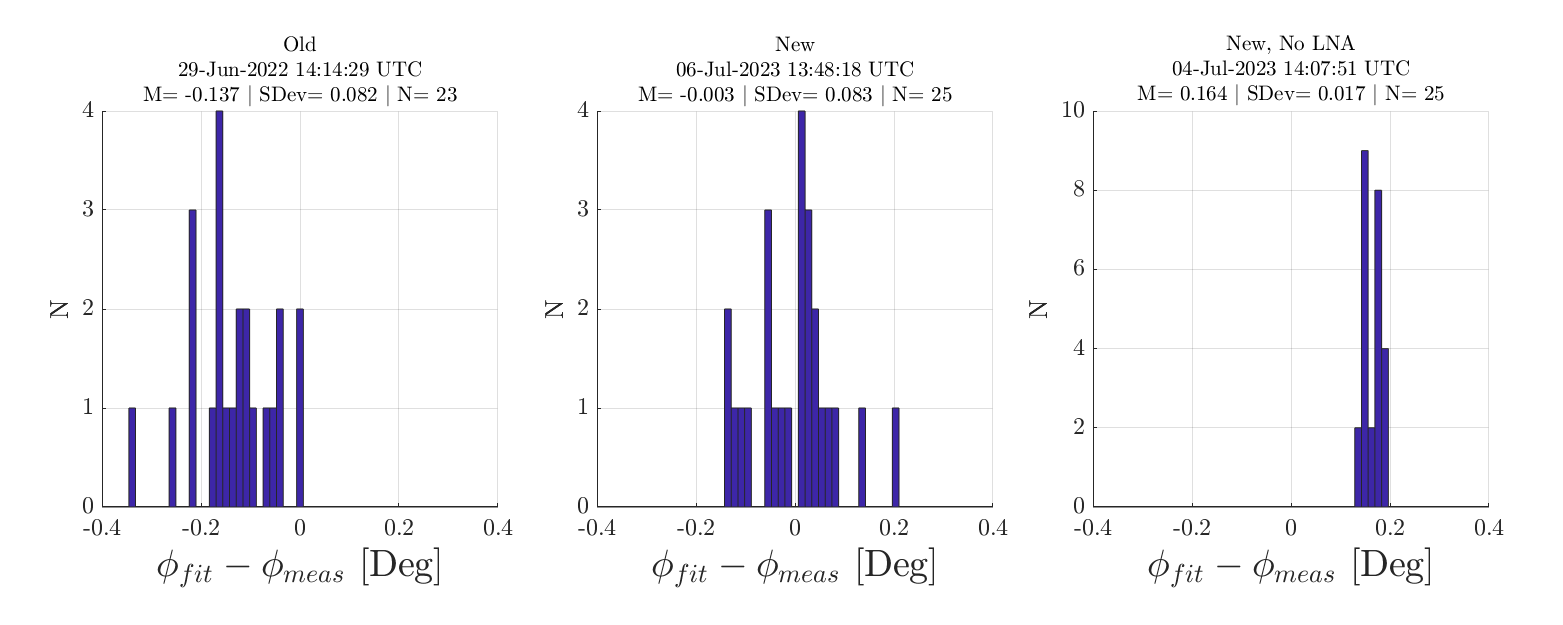
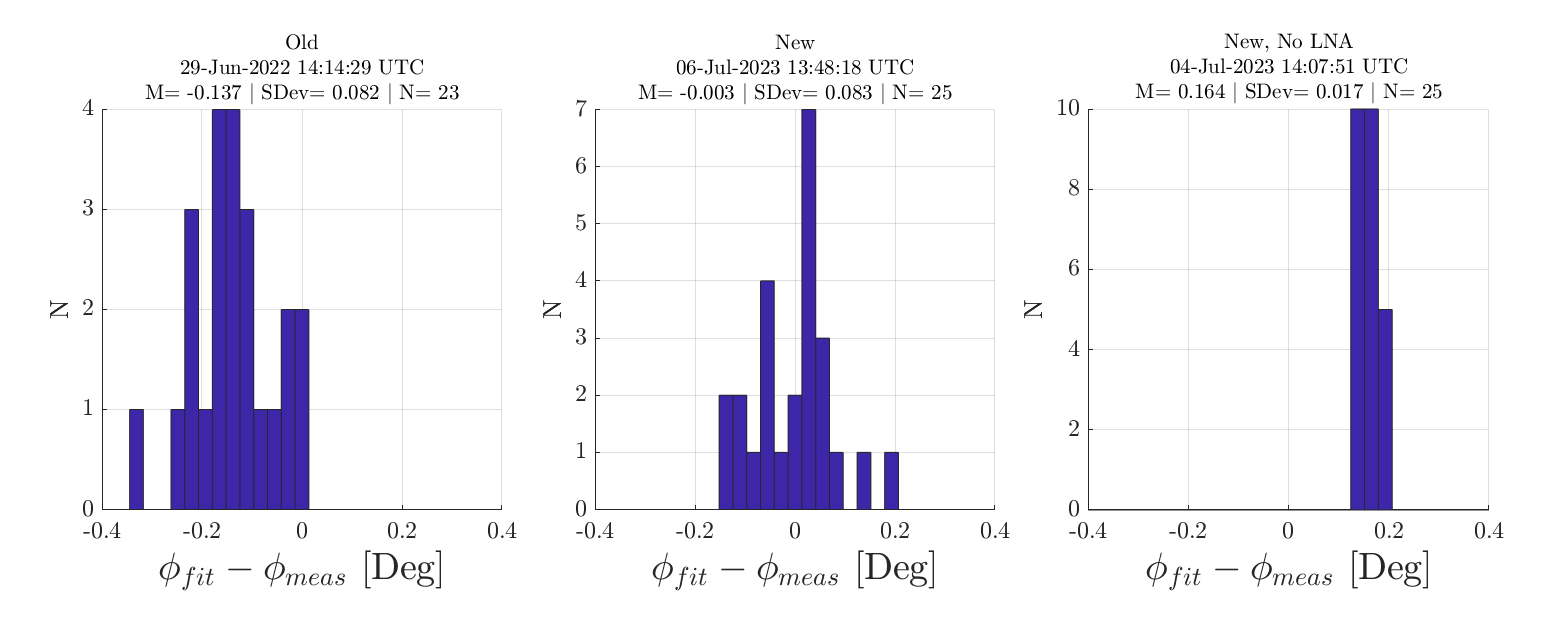
updated ISAAC plot

diff --git a/2023mmdd_isaac_data/scripts/isaac_tests.m b/2023mmdd_isaac_data/scripts/isaac_tests.m
@@ -994,7 +994,7 @@ for schind = 1:length(scheds)
     nexttile()
     hold on
     lims = [-1 1]*0.4;
-    edges = linspace(lims(1),lims(2),60);
+    edges = linspace(lims(1),lims(2),30);
     N = histc(dP,edges);
     bar(edges,N,'histc');
     %hist(dP)
